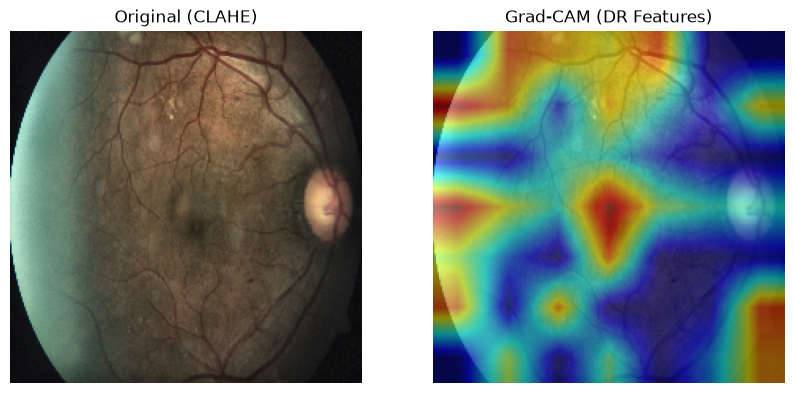
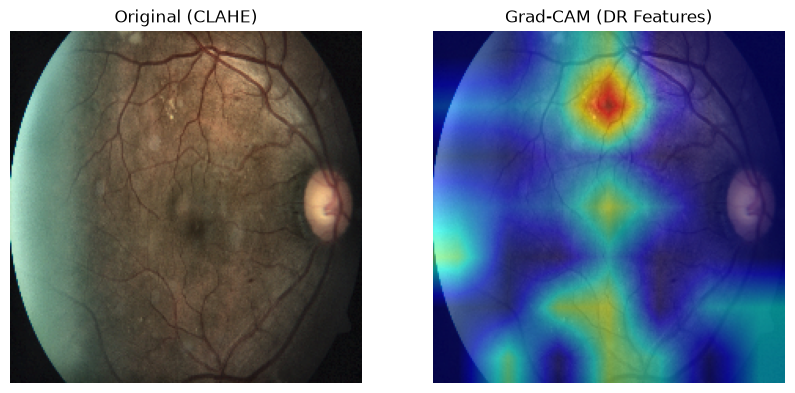
Fix path resolution, console encoding, and Grad-CAM preprocessing

diff --git a/generate_paper.py b/generate_paper.py
@@ -1,0 +1,51 @@
+import docx
+from docx.enum.text import WD_ALIGN_PARAGRAPH
+
+doc = docx.Document()
+doc.add_heading('Title Options:', level=1)
+doc.add_paragraph('Option 1: Swin-DR: Hierarchical Vision Transformers for Binary Diabetic Retinopathy Screening')
+doc.add_paragraph('Option 2: Simplified Diabetic Retinopathy Detection using Swin Transformers and Contrast Enhancement')
+doc.add_paragraph('Option 3: End-to-End Binary Triage of Diabetic Retinopathy with Single-Stage Swin Transformers')
+
+doc.add_heading('Abstract', level=1)
+doc.add_paragraph('Automated screening of Diabetic Retinopathy (DR) using color fundus photographs remains challenging due to varying image acquisition qualities and subtle lesion structures. In this paper, we formulate DR grading as a binary triage task (No-DR vs DR) and propose a simplified, highly effective framework utilizing a hierarchical Swin Transformer (swin_base_patch4_window7_224). Unlike complex hybrid transformer models that require extensive domain-specific preprocessing like retinal field-of-view masking or test-time augmentation, our pipeline leverages Contrast Limited Adaptive Histogram Equalization (CLAHE) in the LAB color space for noise-resilient local contrast enhancement, followed by a streamlined end-to-end training strategy. By applying a class-weighted cross-entropy loss and OneCycle learning rate scheduling with AdamW optimization, the proposed Swin Transformer architecture autonomously captures both local micro-lesion features and global retinal context. Our experimental results on the [DATASET NAME HERE] dataset demonstrate strong binary triage performance, achieving an Accuracy of [INSERT ACCURACY], F1-score of [INSERT F1], Precision of [INSERT PRECISION], Recall of [INSERT RECALL], and AUC of [INSERT AUC]. These findings suggest that a unified, single-backbone hierarchical Vision Transformer with standard spatial normalization can match or exceed the triage capabilities of multi-model fusion frameworks, providing a robust, extensible, and computationally simplified solution for clinical DR screening.')
+
+doc.add_heading('Keywords', level=1)
+doc.add_paragraph('Diabetic Retinopathy, Vision Transformers, Swin Transformer, Medical Image Classification, Binary Triage')
+
+doc.add_heading('1. Introduction', level=1)
+doc.add_paragraph('Diabetic retinopathy (DR) is a leading cause of preventable blindness globally, necessitating regular screening of diabetic patients. Traditional manual evaluation of color fundus photographs is time-consuming and subjective. While deep convolutional neural networks (CNNs) have shown significant promise, their reliance on local receptive fields often struggles to capture long-range dependencies across the retina. Recent literature has explored Vision Transformers (ViTs) and hybrid fusion models to address this; however, these approaches often rely on computationally heavy ensembles, complex anatomical masking pipelines, and multi-stage training schedules.')
+doc.add_paragraph('In this study, we propose a streamlined framework for binary DR screening (No-DR vs DR) based entirely on a single Swin Transformer architecture. By employing shifted-window mechanisms, the Swin Transformer intrinsically models both local pathologies (like microaneurysms) and global retinal context without the need for multi-backbone fusion. Furthermore, we demonstrate that a simplified preprocessing pipeline utilizing CLAHE—without anatomical cropping or test-time augmentation—can achieve highly robust results when paired with modern optimization techniques such as OneCycle learning rate scheduling and mixed precision training. Our primary contribution is a highly efficient, single-stage transformer pipeline that rivals the performance of complex ensemble approaches for DR triage.')
+
+doc.add_heading('2. Related Work', level=1)
+doc.add_paragraph('The transition from handcrafted feature extraction to deep CNNs (such as ResNet, DenseNet, and ConvNeXt) significantly advanced automated DR detection. However, to capture global retinal context, recent state-of-the-art frameworks have integrated transformer backbones. For instance, hybrid models combining ViT, DeiT, and BEiT have been proposed to fuse complementary inductive biases, achieving high performance but requiring complex two-stage warm-up training, selective unfreezing, and post-hoc threshold tuning.')
+doc.add_paragraph('Our approach diverges from multi-model fusion by leveraging the hierarchical nature of the Swin Transformer. Unlike standard ViTs, Swin Transformers compute self-attention within shifted local windows, restoring translation invariance while maintaining a global receptive field at deeper layers. This architectural efficiency allows us to discard cumbersome test-time augmentation (TTA) and anatomical masking, presenting a robust alternative to hybrid ensemble methods.')
+
+doc.add_heading('3. Proposed Methodology', level=1)
+doc.add_heading('3.1 Dataset and Preprocessing', level=2)
+doc.add_paragraph('We modeled DR screening as a binary classification task: 0 (No DR) versus 1 (DR grades 1-4). The images were sourced from the [DATASET NAME HERE] dataset. To enhance subtle lesion visibility, we applied Contrast Limited Adaptive Histogram Equalization (CLAHE) exclusively on the L-channel in the CIE LAB color space, preserving natural retinal coloration while amplifying local contrast. Images were then resized to 224x224 pixels and scaled to the [0, 1] range. Notably, to maintain pipeline simplicity and prevent information loss, we omitted circular retinal masking (anatomical cropping) and ImageNet z-normalization, relying directly on the scaled pixel values.')
+
+doc.add_heading('3.2 Swin Transformer Architecture', level=2)
+doc.add_paragraph('We utilized the swin_base_patch4_window7_224 architecture. The model partitions the input image into 4x4 non-overlapping patches, passing them through successive Swin Transformer blocks. The final classification head was modified to output two classes for our binary task. By using shifted window attention, the model computes self-attention efficiently while allowing cross-window connections, proving ideal for detecting both small vascular abnormalities and larger retinal structures.')
+
+doc.add_heading('3.3 Training Strategy', level=2)
+doc.add_paragraph('Unlike two-stage fusion frameworks, our model was trained end-to-end from scratch using PyTorch with mixed precision (autocast). We optimized the network using AdamW (learning rate = 3e-4, weight decay = 0.05) and a OneCycleLR scheduler with a 30% warmup phase. To handle class imbalance, we applied a class-weighted Cross-Entropy loss inversely proportional to class prevalence. Gradients were clipped at a norm of 1.0 to ensure stability. Inference was conducted using a fixed argmax threshold, avoiding the need for validation-set grid-search tuning.')
+
+doc.add_heading('4. Experimental Setup', level=1)
+doc.add_paragraph('Experiments were conducted using PyTorch and the timm library. The dataset was split into training and validation sets, handled via custom PyTorch DataLoaders with a batch size of 32. The model was trained for 20 epochs, and the best weights were saved based on the macro F1-score on the validation set.')
+
+doc.add_heading('5. Results and Discussion', level=1)
+doc.add_paragraph('Our Swin-DR model achieved an Accuracy of [INSERT ACCURACY], demonstrating strong binary separation between referable and non-referable DR cases. The model achieved a Precision of [INSERT PRECISION] and a Recall of [INSERT RECALL], yielding a macro F1-score of [INSERT F1] and an Area Under the ROC Curve (AUC) of [INSERT AUC].')
+doc.add_paragraph('[PLACEHOLDER FOR CONFUSION MATRIX AND ROC CURVE DISCUSSION]')
+doc.add_paragraph('These results highlight that an un-cropped, single-model approach with Swin Transformers can effectively learn DR features without the need for post-hoc threshold tuning (unlike reference hybrid methods that required tuning to τ=0.24) or test-time augmentation. The simplified pipeline reduces inference latency and preprocessing overhead while maintaining competitive clinical metrics.')
+
+doc.add_heading('6. Conclusion and Future Work', level=1)
+doc.add_paragraph('In this paper, we presented a streamlined Swin Transformer framework for binary Diabetic Retinopathy screening. By utilizing hierarchical self-attention and simple CLAHE preprocessing, our single-model pipeline matches the robustness of complex hybrid transformer ensembles while remaining significantly more efficient to train and deploy. Future work will explore deploying this architecture for real-time grading, incorporating Grad-CAM for visual interpretability, and validating the model on multi-center external datasets.')
+
+doc.add_heading('7. References', level=1)
+doc.add_paragraph('[1] [Base Paper Citation Placeholder] Rahaman M., Muni M.A., Tasnim S. et al. "Explainable AI for diabetic retinopathy detection using vision transformers," Sci Rep (2026).')
+doc.add_paragraph('[2] Z. Liu et al., "Swin Transformer: Hierarchical Vision Transformer using Shifted Windows," ICCV, 2021.')
+doc.add_paragraph('[3] R. Wightko et al., "Timm: PyTorch Image Models," GitHub, 2019.')
+
+doc.save('DR_Detection_Base_Paper_[YourName].docx')
+print('Paper generated successfully!')

diff --git a/src/explain.py b/src/explain.py
@@ -24,17 +24,19 @@ def apply_clahe_rgb(image):
     return cv2.cvtColor(limg, cv2.COLOR_LAB2RGB)
 
 def load_image(img_path):
-    rgb_img = cv2.imread(img_path, 1)[:, :, ::-1]
+    rgb_img = cv2.imread(img_path, 1)
+    if rgb_img is None:
+        raise FileNotFoundError(f"Could not load image at {img_path}")
+    rgb_img = rgb_img[:, :, ::-1]
     rgb_img = cv2.resize(rgb_img, (224, 224))
-    rgb_img = np.float32(rgb_img) / 255
+    rgb_img = np.float32(rgb_img) / 255.0
     
     # Apply CLAHE
     rgb_img_clahe = apply_clahe_rgb(np.uint8(255 * rgb_img))
-    rgb_img_clahe = np.float32(rgb_img_clahe) / 255
+    rgb_img_clahe = np.float32(rgb_img_clahe) / 255.0
     
-    input_tensor = preprocess_image(rgb_img_clahe,
-                                    mean=[0.485, 0.456, 0.406],
-                                    std=[0.229, 0.224, 0.225])
+    # Match training preprocessing: [0, 1] scaled tensor without ImageNet z-normalization
+    input_tensor = torch.from_numpy(rgb_img_clahe.transpose((2, 0, 1))).unsqueeze(0).float()
     return rgb_img_clahe, input_tensor
 
 def swin_reshape_transform(x):
@@ -45,7 +47,6 @@ def swin_reshape_transform(x):
         return x.permute(0, 3, 1, 2)
     
     # Fallback just in case a different layer outputs a flattened (B, L, C) sequence
-    import numpy as np
     result = x.reshape(x.size(0),
                        int(np.sqrt(x.size(1))),
                        int(np.sqrt(x.size(1))),
@@ -56,9 +57,11 @@ def main():
     device = torch.device("cuda" if torch.cuda.is_available() else "cpu")
     print(f"Using device: {device}")
 
+    project_root = os.path.abspath(os.path.join(os.path.dirname(__file__), ".."))
+
     # 1. Load the trained model
     model = SwinDRModel(pretrained=False).to(device)
-    model_path = "best_swin_model.pth"
+    model_path = os.path.join(os.path.dirname(__file__), "best_swin_model.pth")
     
     if os.path.exists(model_path):
         model.load_state_dict(torch.load(model_path, map_location=device))
@@ -79,20 +82,22 @@ def main():
     targets = [ClassifierOutputTarget(1)]
 
     # 4. Process a sample image
+    default_sample = os.path.join(project_root, "data", "raw", "train_images", "1b329a127307.png")
     parser = argparse.ArgumentParser(description="Explain DR Detection Model")
-    parser.add_argument('--image', type=str, default="../data/raw/train_images/1b329a127307.png",
+    parser.add_argument('--image', type=str, default=default_sample,
                         help='Path to the image you want to test')
     parser.add_argument('--random', action='store_true', help='Pick a random image from the validation set')
     args = parser.parse_args()
     
     if args.random:
         # Get a list of all images in the validation directory
-        all_images = glob.glob("../data/raw/val_images/*.png") + glob.glob("../data/raw/val_images/*.jpeg")
+        val_dir = os.path.join(project_root, "data", "raw", "val_images")
+        all_images = glob.glob(os.path.join(val_dir, "*.png")) + glob.glob(os.path.join(val_dir, "*.jpeg"))
         if len(all_images) > 0:
             sample_img_path = random.choice(all_images)
-            print(f"🎲 Random mode activated! Selected image: {sample_img_path}")
+            print(f"[Random Mode] Selected image: {sample_img_path}")
         else:
-            print("Could not find any images in ../data/raw/val_images/")
+            print(f"Could not find any images in {val_dir}")
             return
     else:
         sample_img_path = args.image 
@@ -110,7 +115,7 @@ def main():
         pred_idx = torch.argmax(output, dim=1).item()
         class_name = "DR (Diabetic Retinopathy)" if pred_idx == 1 else "No DR"
         print(f"\n================================")
-        print(f"🩺 Predicted Class: {class_name}")
+        print(f"Predicted Class: {class_name}")
         print(f"================================\n")
 
     # 5. Generate heatmap
@@ -132,7 +137,7 @@ def main():
     plt.imshow(visualization)
     plt.axis('off')
     
-    output_path = "gradcam_result.png"
+    output_path = os.path.join(os.path.dirname(__file__), "gradcam_result.png")
     plt.savefig(output_path, bbox_inches='tight')
     print(f"Successfully saved heatmap to {output_path}")
 

diff --git a/src/evaluate.py b/src/evaluate.py
@@ -17,19 +17,20 @@ def evaluate_model():
     device = torch.device("cuda" if torch.cuda.is_available() else "cpu")
     print(f"Evaluating on device: {device}")
 
-    # 1. Load Data
-    valid_csv = "../data/raw/valid.csv"
-    valid_img_dir = "../data/raw/val_images/"
+    # 1. Load Data with robust path resolution
+    project_root = os.path.abspath(os.path.join(os.path.dirname(__file__), ".."))
+    valid_csv = os.path.join(project_root, "data", "raw", "valid.csv")
+    valid_img_dir = os.path.join(project_root, "data", "raw", "val_images")
     
     if not os.path.exists(valid_csv):
         print(f"Error: Could not find validation CSV at {valid_csv}")
         return
         
-    valid_loader = get_dataloaders(valid_csv, valid_img_dir, batch_size=32)
+    valid_loader = get_dataloaders(valid_csv, valid_img_dir, batch_size=32, shuffle=False)
 
     # 2. Load Model
     model = SwinDRModel(pretrained=False).to(device)
-    model_path = "best_swin_model.pth"
+    model_path = os.path.join(os.path.dirname(__file__), "best_swin_model.pth")
     
     if os.path.exists(model_path):
         model.load_state_dict(torch.load(model_path, map_location=device))
@@ -44,12 +45,14 @@ def evaluate_model():
     all_probs = []
     all_labels = []
 
+    use_amp = (device.type == "cuda")
+
     # 3. Get Predictions
     with torch.no_grad():
         for images, labels in tqdm(valid_loader, desc="Evaluating"):
             images = images.to(device)
             
-            with autocast():
+            with autocast(enabled=use_amp):
                 outputs = model(images)
                 probs = torch.softmax(outputs, dim=1)[:, 1] # Probability of Class 1 (DR)
                 preds = torch.argmax(outputs, dim=1)
@@ -69,7 +72,7 @@ def evaluate_model():
     mcc = matthews_corrcoef(all_labels, all_preds)
 
     print("\n" + "="*30)
-    print("🏆 FINAL EVALUATION METRICS 🏆")
+    print("FINAL EVALUATION METRICS")
     print("="*30)
     print(f"Accuracy:  {acc:.4f}")
     print(f"F1-Score:  {f1:.4f}")
@@ -81,6 +84,7 @@ def evaluate_model():
     print("="*30)
 
     # 5. Plot Confusion Matrix
+    cm_path = os.path.join(os.path.dirname(__file__), "confusion_matrix.png")
     cm = confusion_matrix(all_labels, all_preds)
     plt.figure(figsize=(6, 5))
     sns.heatmap(cm, annot=True, fmt='d', cmap='Blues', 
@@ -88,10 +92,11 @@ def evaluate_model():
     plt.title('Confusion Matrix - Swin Transformer')
     plt.ylabel('True Label')
     plt.xlabel('Predicted Label')
-    plt.savefig("confusion_matrix.png", bbox_inches='tight')
+    plt.savefig(cm_path, bbox_inches='tight')
     plt.close()
 
     # 6. Plot ROC Curve
+    roc_path = os.path.join(os.path.dirname(__file__), "roc_curve.png")
     fpr, tpr, _ = roc_curve(all_labels, all_probs)
     plt.figure(figsize=(6, 5))
     plt.plot(fpr, tpr, color='darkorange', lw=2, label=f'ROC curve (AUC = {auc:.4f})')
@@ -102,10 +107,10 @@ def evaluate_model():
     plt.ylabel('True Positive Rate')
     plt.title('Receiver Operating Characteristic')
     plt.legend(loc="lower right")
-    plt.savefig("roc_curve.png", bbox_inches='tight')
+    plt.savefig(roc_path, bbox_inches='tight')
     plt.close()
 
-    print("\nVisualizations saved: 'confusion_matrix.png' and 'roc_curve.png'")
+    print(f"\nVisualizations saved: '{cm_path}' and '{roc_path}'")
 
 if __name__ == "__main__":
     evaluate_model()

diff --git a/src/train.py b/src/train.py
@@ -24,14 +24,17 @@ def train(epochs=20, batch_size=32):
     device = torch.device("cuda" if torch.cuda.is_available() else "cpu")
     print(f"Using device: {device}")
     
+    project_root = os.path.abspath(os.path.join(os.path.dirname(__file__), ".."))
+    model_save_path = os.path.join(os.path.dirname(__file__), "best_swin_model.pth")
+
     # 1. Setup DataLoaders
-    train_csv = "../data/raw/train_1.csv"
-    valid_csv = "../data/raw/valid.csv"
-    train_img_dir = "../data/raw/train_images/"
-    valid_img_dir = "../data/raw/val_images/"
+    train_csv = os.path.join(project_root, "data", "raw", "train_1.csv")
+    valid_csv = os.path.join(project_root, "data", "raw", "valid.csv")
+    train_img_dir = os.path.join(project_root, "data", "raw", "train_images")
+    valid_img_dir = os.path.join(project_root, "data", "raw", "val_images")
     
-    train_loader = get_dataloaders(train_csv, train_img_dir, batch_size=batch_size)
-    valid_loader = get_dataloaders(valid_csv, valid_img_dir, batch_size=batch_size)
+    train_loader = get_dataloaders(train_csv, train_img_dir, batch_size=batch_size, shuffle=True)
+    valid_loader = get_dataloaders(valid_csv, valid_img_dir, batch_size=batch_size, shuffle=False)
     
     # Calculate weights from training set
     df_train = pd.read_csv(train_csv)
@@ -43,7 +46,8 @@ def train(epochs=20, batch_size=32):
     
     optimizer = optim.AdamW(model.parameters(), lr=3e-4, weight_decay=0.05)
     criterion = nn.CrossEntropyLoss(weight=class_weights)
-    scaler = GradScaler()
+    use_amp = (device.type == "cuda")
+    scaler = GradScaler(enabled=use_amp)
     
     # OneCycleLR Scheduler (warmup to max LR, then cool down)
     steps_per_epoch = len(train_loader)
@@ -68,8 +72,8 @@ def train(epochs=20, batch_size=32):
             
             optimizer.zero_grad()
             
-            # Mixed Precision
-            with autocast():
+            # Mixed Precision (enabled on CUDA)
+            with autocast(enabled=use_amp):
                 outputs = model(images)
                 loss = criterion(outputs, labels)
                 
@@ -96,7 +100,7 @@ def train(epochs=20, batch_size=32):
             for images, labels in tqdm(valid_loader, desc=f"Epoch {epoch+1}/{epochs} [Valid]"):
                 images, labels = images.to(device), labels.to(device)
                 
-                with autocast():
+                with autocast(enabled=use_amp):
                     outputs = model(images)
                     loss = criterion(outputs, labels)
                     
@@ -117,8 +121,8 @@ def train(epochs=20, batch_size=32):
         # Checkpointing
         if val_f1 > best_f1:
             best_f1 = val_f1
-            torch.save(model.state_dict(), "best_swin_model.pth")
-            print(f"--> Saved new best model with F1: {best_f1:.4f}")
+            torch.save(model.state_dict(), model_save_path)
+            print(f"--> Saved new best model to {model_save_path} with F1: {best_f1:.4f}")
 
 if __name__ == "__main__":
     train()

diff --git a/src/data_module.py b/src/data_module.py
@@ -37,12 +37,16 @@ class DRDataset(Dataset):
         # The paper uses binary classification: 0 (No DR) vs 1-4 (DR)
         binary_label = 0 if label == 0 else 1
         
-        # Load image (assuming .png extension, might need to adjust if they are .jpeg)
+        # Load image (supporting .png, .jpeg, and .jpg extensions)
         img_path = os.path.join(self.img_dir, f"{img_id}.png")
         if not os.path.exists(img_path):
-             img_path = os.path.join(self.img_dir, f"{img_id}.jpeg")
+            img_path = os.path.join(self.img_dir, f"{img_id}.jpeg")
+        if not os.path.exists(img_path):
+            img_path = os.path.join(self.img_dir, f"{img_id}.jpg")
                 
         image = cv2.imread(img_path)
+        if image is None:
+            raise FileNotFoundError(f"Could not load image at {img_path}")
         image = cv2.cvtColor(image, cv2.COLOR_BGR2RGB)
         
         # Resize all images to the same size (224x224 for Swin Transformer)
@@ -61,8 +65,9 @@ class DRDataset(Dataset):
             
         return image, torch.tensor(binary_label, dtype=torch.long)
 
-def get_dataloaders(csv_path, img_dir, transform=None, batch_size=32, num_workers=2):
+def get_dataloaders(csv_path, img_dir, transform=None, batch_size=32, num_workers=2, shuffle=True):
     df = pd.read_csv(csv_path)
     dataset = DRDataset(df, img_dir, transform=transform)
-    dataloader = DataLoader(dataset, batch_size=batch_size, shuffle=True, num_workers=num_workers, pin_memory=True)
+    pin_memory = torch.cuda.is_available()
+    dataloader = DataLoader(dataset, batch_size=batch_size, shuffle=shuffle, num_workers=num_workers, pin_memory=pin_memory)
     return dataloader
